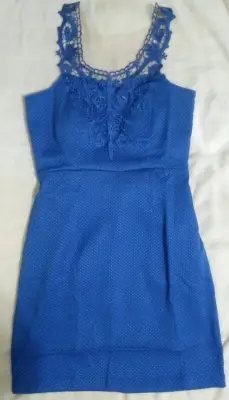
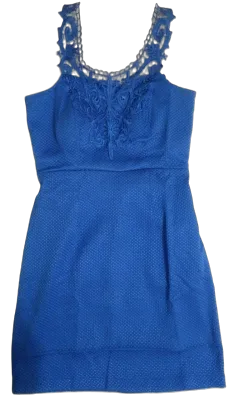
correção calculo propriedade peças

diff --git a/css/style.css b/css/style.css
@@ -6869,12 +6869,16 @@ body {
 #ocasioes .ocasioes-stat.destaque-laranja strong {
     margin-top: 4px;
     color: var(--modern-accent-strong);
-    font-size: 22px;
-    line-height: 1;
+    font-size: 18px;
+    line-height: 1.08;
+    overflow: visible;
+    text-overflow: clip;
+    white-space: normal;
+    overflow-wrap: anywhere;
 }
 
 #ocasioes .ocasioes-destaque strong {
-    font-size: 20px;
+    font-size: 17px;
 }
 
 @media (max-width: 768px) {

diff --git a/index.html b/index.html
@@ -22,7 +22,7 @@
             }
         })();
     </script>
-    <link rel="stylesheet" href="css/style.css?v=20260721-utilizacao-card-look">
+    <link rel="stylesheet" href="css/style.css?v=20260722-ocasioes-cards-fonte">
 </head>
 <body>
     <div id="app">
